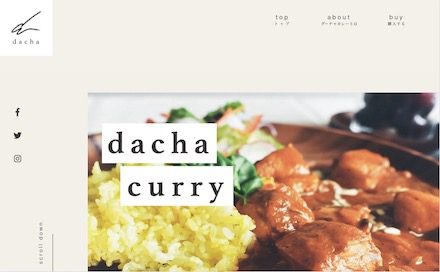
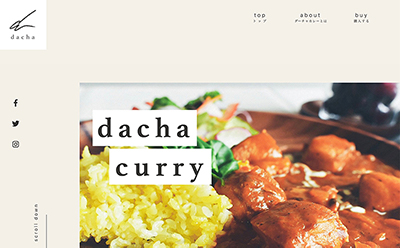
detailのHTML、CSS進めた。画像の追加。

diff --git a/detail/works01-detail.html b/detail/works01-detail.html
@@ -84,11 +84,18 @@
         </div>
         <div class="project-detail">
             <div class="project-img">
-                <img src="../images/work01-01@1x.jpg" srcset="../images/work01-01@1x.jpg 750w,
-                ../images/work01-01@2x.jpg 960w" alt="作品画像01">
-                <img src="" alt="">
-                <img src="" alt="">
-                <img src="" alt="">
+                <img src="../images/work01-01@1x.jpg" srcset="../images/work01-01@1x.jpg 400w,
+                ../images/work01-01@2x.jpg 800w,
+                ../images/work01-01@3x.jpg 1200w" sizes="100vw" alt="作品画像01">
+                <img src="../images/work01-02@1x.jpg" srcset="../images/work01-02@1x.jpg 400w,
+                ../images/work01-02@2x.jpg 800w,
+                ../images/work01-02@3x.jpg 1200w" sizes="100vw" alt="作品画像01">
+                <img src="../images/work01-03@1x.jpg" srcset="../images/work01-03@1x.jpg 400w,
+                ../images/work01-03@2x.jpg 800w,
+                ../images/work01-03@3x.jpg 1200w" sizes="100vw" alt="作品画像01">
+                <img src="../images/work01-04@1x.jpg" srcset="../images/work01-04@1x.jpg 400w,
+                ../images/work01-04@2x.jpg 800w,
+                ../images/work01-04@3x.jpg 1200w" sizes="100vw" alt="作品画像01">
             </div>
 
             <div class="project-intention">
@@ -108,13 +115,15 @@
                         ンのコンセプトとしました。</p>
                     <p>「ダーチャ（dacha）」とは、ロシアの菜園付きの別荘のことです。ロシアの人たちは週末や夏季休暇には多くの人が郊外にあるダ
                         ーチャに行き、菜園で野菜や花の世話をしたり、親しい人を招いて一緒に食事をしたりして過ごしています。大人の女性がローカル
-                        の文化を知って暮らしに取り入れたくなると思ってもらいたいと考えました。最初は別荘というイメージから「特別感」や「高級
+                        の文化を知って暮らしに取り入れたくなってもらいたいと考えました。最初は別荘というイメージから「特別感」や「高級
                         感」を押し出そうと考えていましたが、ダーチャで過ごすというのは日本の別荘のイメージとは異なり、ロシアではごく一般的な休
                         日の過ごし方なので、「ローカル感」「休息」「肩の力を抜く」といったイメージで考えていきました。
                     </p>
                     <p>ダーチャカレーを食べたらどういう気持ちになるのか、なってほしいのかといった部分についても考え、サイトを見たときに「食べ
                         たら幸せな気持ちになりそう」と思ってもらえるデザインを目指しました。</p>
-                    <img src="" alt="">
+                    <img src="../images/work01-05@1x.jpg" srcset="../images/work01-04@1x.jpg 400w,
+                ../images/work01-05@2x.jpg 800w,
+                ../images/work01-05@3x.jpg 1200w" sizes="100vw" alt="作品画像05">
                 </div>
                 <div class="intention-box">
                     <h4>コーディング</h4>

diff --git a/detail/css/style-detail.css b/detail/css/style-detail.css
@@ -3,7 +3,7 @@
 .header {
     position: static;
     color: #000;
-    margin: 20px;
+    margin: 0 20px;
 }
 
 .header-container {
@@ -49,7 +49,7 @@ project-summary-pc
 .work-detail {
     display: flex;
     font-size: 1.4rem;
-    line-height: 1.8;
+    line-height: 1.6;
     margin: 0 20px 20px;
 }
 
@@ -57,7 +57,7 @@ project-summary-pc
     position: fixed;
     padding: 0 6% 0 2%;
     width: 35%;
-    height: 100%;
+    height: 100vh;
 }
 
 .project-detail {
@@ -68,15 +68,17 @@ project-summary-pc
 
 
 dl {
-    padding-bottom: 48px;
+    padding-bottom: 4vh;
 }
 
 .category {
-    padding-bottom: 32px;
+    padding-bottom: 6vh;
 }
 
 .back {
-    padding: 20px 0;
+    position: absolute;
+    bottom: 32vh;
+    left: 6%;
 }
 
 .lt::before {
@@ -85,7 +87,7 @@ dl {
 
 .barcode {
     position: absolute;
-    bottom: 30%;
+    bottom: 28vh;
     right: 4%;
 }
 
@@ -94,6 +96,10 @@ dl {
 project-detail-pc
 
 --------------------*/
+.project-img img {
+    padding-bottom: 80px;
+}
+
 .project-intention p {
     padding-bottom: 16px;
 }

diff --git a/index.html b/index.html
@@ -80,7 +80,9 @@
         <h2 class="section-header">works
         </h2>
         <div class="grid" id="grid">
-            <div class="grid-item"><img src="images/work01.png" alt="作品01">
+            <div class="grid-item"> <img src="images/work01-01@1x.jpg" srcset="images/work01-01@1x.jpg 400w,
+                images/work01-01@2x.jpg 800w,
+                images/work01-01@3x.jpg 1200w" sizes="100vw" alt="作品画像01">
                 <div class="work-info">
                     <p class="work-name">dacha curry</p>
                     <p>webデザイン/コーディング</p>
